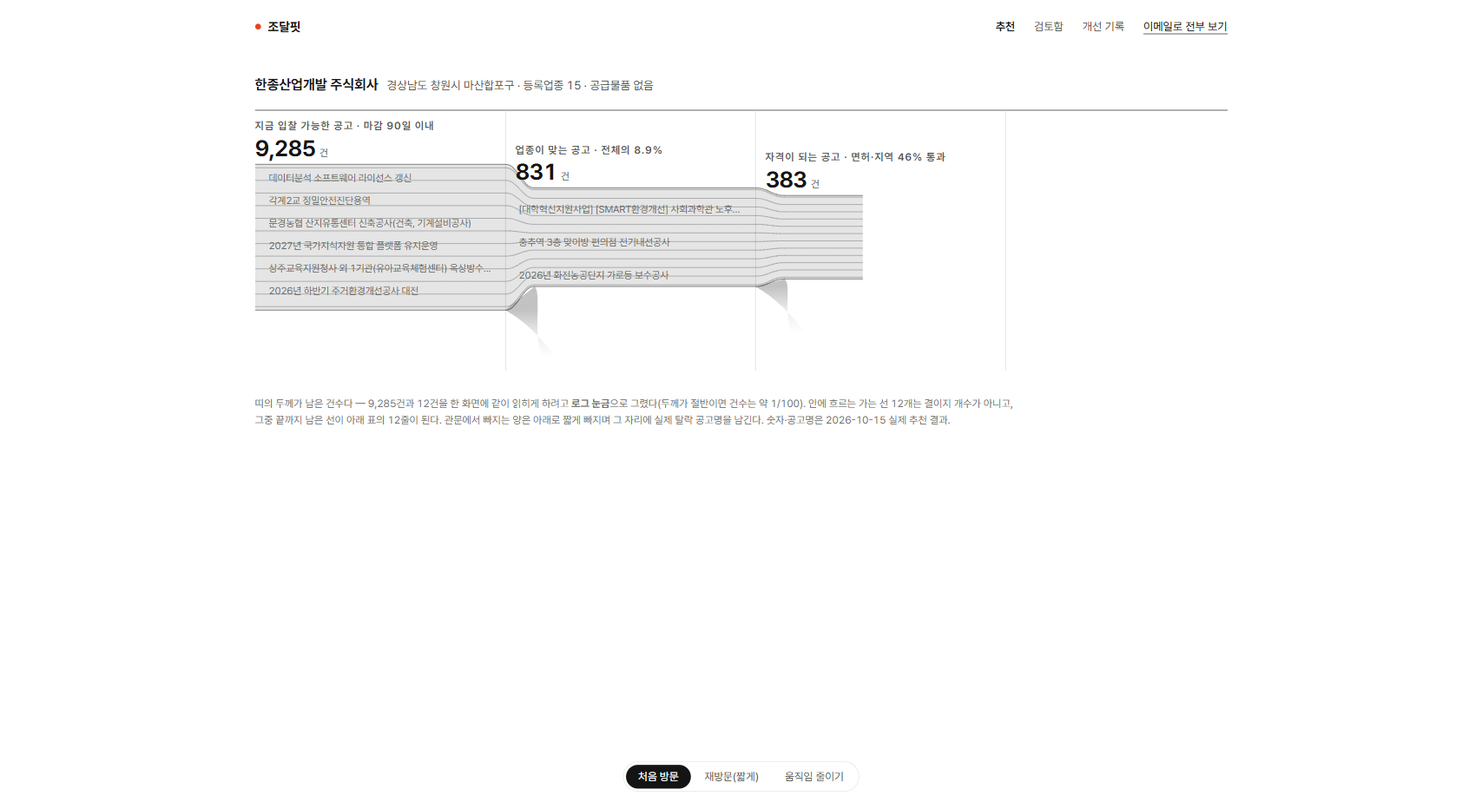
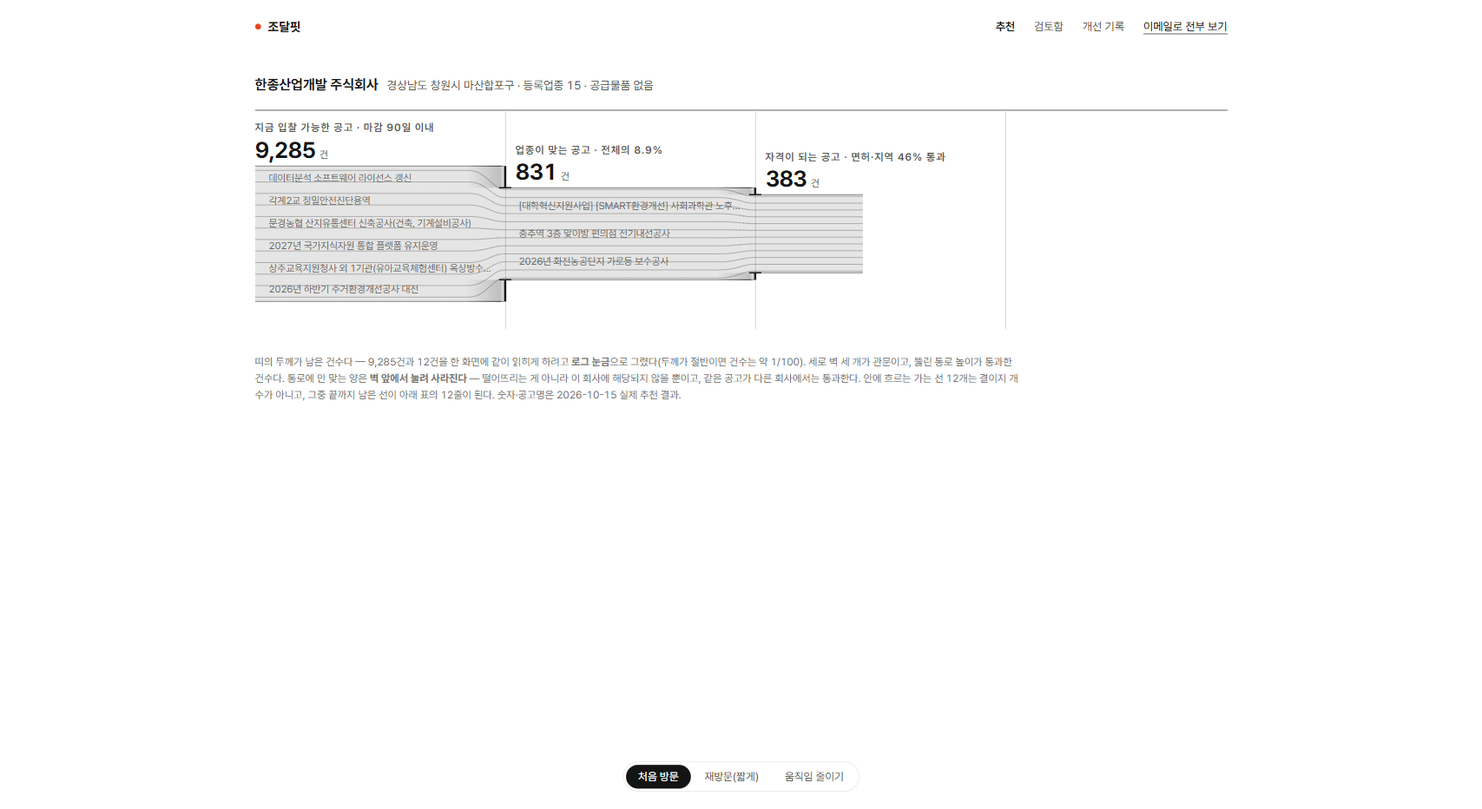
design(flow): 탈락을 '아래로 떨어짐'이 아니라 '관문에서 막힘'으로 — 체(sieve) 비유로 교체
막힌 공고는 나쁜 게 아니라 이 회사에 해당되지 않을 뿐이고, 같은 공고가 다른 회사에서는
통과한다. 아래로 버리는 쐐기는 그 사실을 거짓으로 말하고 있었다.

- 관문 = 통로만 뚫린 세로 벽 3개(288/576/864 등간격, 같은 처리 — 체크포인트 리듬).
  통로 높이 = 통과한 건수의 띠 높이. 통로 끝에 짧은 입술을 달아 '뚫린 구멍'을 분명히 했다.
- 통로에 안 맞는 양은 벽 앞 44px에서 눌려 짙어졌다가 벽면에서 흩어진다. 벽면에서 0이 아니라
  옅게 남겨 잉크가 벽에 닿게 했다 — 벽 앞에서 끊기면 '막힌' 게 아니라 '사라진' 걸로 읽힌다.
- 아래로 새는 도형 전부 삭제. 띠 높이 300 → 252px, 아래 매달린 것 없음.
- 구간은 계단식 평평한 네모(곡선 테이퍼 폐기), 통과한 흐름은 가운데로 모여 다음 벽까지.
- 가닥은 벽 앞 44px에서 통로 폭으로 모인다 — 구멍을 빠져나가는 그림.

표현 결정 반영 (docs/design/README.md 2026-10-15):
- 적합 점수 숫자 제거, 숫자 없는 막대만. '안 맞아요' 삭제, '검토 인장' → '검토'.
  gen_results_v3/v4 는 다른 작업자가 쓰는 중이라 건드리지 않고 sheet() 에서 문자열로 깎고
  치환 실패 시 assert 로 터지게 했다.

Changed region(s): [[0.1552, 0.1245, 0.5899, 0.4045], [0.1552, 0.4356, 0.6831, 0.529]]

diff --git a/docs/design/prototypes/flow.html b/docs/design/prototypes/flow.html
@@ -33,7 +33,7 @@ a { color:inherit; text-decoration:none } .dim { color:#6b6b67 } .mute { color:#
 
 .q { padding:26px 0 0; font-size:13.5px; color:#55554f } .q b { color:#141414; font-size:16px; font-weight:650; margin-right:10px }
 .stage { margin-top:20px; border-top:1px solid #141414 }
-.band { position:relative; height:300px; overflow:hidden; transition:height .55s cubic-bezier(.3,.7,.2,1) }
+.band { position:relative; height:252px; overflow:hidden; transition:height .55s cubic-bezier(.3,.7,.2,1) }
 .band svg { display:block; transition:transform .55s cubic-bezier(.3,.7,.2,1) }
 .lab { position:absolute; opacity:0; transition:opacity .4s ease } .lab.on { opacity:1 }
 .lab .k { display:block; font-size:12px; color:#55554f; white-space:nowrap; line-height:1.3 }
@@ -50,8 +50,10 @@ a { color:inherit; text-decoration:none } .dim { color:#6b6b67 } .mute { color:#
 .ctl { position:fixed; left:50%; bottom:20px; transform:translateX(-50%); display:flex; gap:2px; background:#fff; border:1px solid #e6e4df; border-radius:999px; padding:3px; font-size:12.5px }
 .ctl span { padding:6px 14px; border-radius:999px; color:#55554f; cursor:pointer } .ctl span.on { background:#141414; color:#fff }
 .foot { max-width:880px; line-height:1.6 }
+/* 적합은 숫자 없이 막대만 (docs/design/README.md 표현·요소 결정 2026-10-15) */
+.tr .fit i { margin-right:0 }
 @media (prefers-reduced-motion: reduce) { .band, .band svg, .lab, .ttl, .chain, .res { transition:none !important } }
-</style></head><body><div class="wrap"><div class="nav"><div class="brand"><i></i>조달핏</div><div class="links"><b>추천</b><span>검토함</span><span>개선 기록</span><span class="cta">이메일로 전부 보기</span></div></div><div class="q"><b>한종산업개발 주식회사</b>경상남도 창원시 마산합포구 · 등록업종 15 · 공급물품 없음</div><div class="stage"><div class="band"><svg viewBox="0 0 1120 300" width="100%" height="300" preserveAspectRatio="none" aria-hidden="true"><defs><clipPath id="c"><rect id="front" x="0" y="0" width="0" height="300"/></clipPath><linearGradient id="g" gradientUnits="userSpaceOnUse" x1="0" x2="1120"><stop offset="0" stop-color="#141414" stop-opacity=".3"/><stop offset="0.754" stop-color="#141414" stop-opacity=".3"/><stop offset="0.798" stop-color="#e8431b" stop-opacity=".85"/><stop offset="1" stop-color="#e8431b" stop-opacity=".85"/></linearGradient><linearGradient id="w1" gradientUnits="userSpaceOnUse" x1="0" y1="230.0" x2="0" y2="284.0"><stop offset="0" stop-color="#141414" stop-opacity=".26"/><stop offset=".55" stop-color="#141414" stop-opacity=".07"/><stop offset="1" stop-color="#141414" stop-opacity="0"/></linearGradient><linearGradient id="w2" gradientUnits="userSpaceOnUse" x1="0" y1="202.8" x2="0" y2="256.8"><stop offset="0" stop-color="#141414" stop-opacity=".26"/><stop offset=".55" stop-color="#141414" stop-opacity=".07"/><stop offset="1" stop-color="#141414" stop-opacity="0"/></linearGradient><linearGradient id="w3" gradientUnits="userSpaceOnUse" x1="0" y1="194.1" x2="0" y2="248.1"><stop offset="0" stop-color="#141414" stop-opacity=".26"/><stop offset=".55" stop-color="#141414" stop-opacity=".07"/><stop offset="1" stop-color="#141414" stop-opacity="0"/></linearGradient></defs><line x1="288.5" y1="0" x2="288.5" y2="300" stroke="#e6e4df"/><line x1="576.5" y1="0" x2="576.5" y2="300" stroke="#e6e4df"/><line x1="864.5" y1="0" x2="864.5" y2="300" stroke="#e6e4df"/><g clip-path="url(#c)"><path d="M0,62.0 L288,62.0 C303,62.0 307,89.2 322,89.2 L576,89.2 C591,89.2 595,97.9 610,97.9 L864,97.9 C879,97.9 883,137.0 898,137.0 L936,137.0 L936,155.0 L898,155.0 C883,155.0 879,194.1 864,194.1 L610,194.1 C595,194.1 591,202.8 576,202.8 L322,202.8 C307,202.8 303,230.0 288,230.0 L0,230.0 Z" fill="#141414" fill-opacity=".11"/><path d="M864,97.9 C879,97.9 883,137.0 898,137.0 L936,137.0 L936,155.0 L898,155.0 C883,155.0 879,194.1 864,194.1 Z" fill="#e8431b" fill-opacity=".14"/><path d="M288,230.0 C310,242.0 330,262.0 346,284.0 L330,284.0 C320,256.0 330,210.8 322,202.8 Z" fill="url(#w1)"/><path d="M576,202.8 C598,214.8 618,234.8 634,256.8 L618,256.8 C608,228.8 618,202.1 610,194.1 Z" fill="url(#w2)"/><path d="M864,194.1 C886,206.1 906,226.1 922,248.1 L906,248.1 C896,220.1 906,163.0 898,155.0 Z" fill="url(#w3)"/><path d="M0,62.0 L288,62.0 C303,62.0 307,89.2 322,89.2 L576,89.2 C591,89.2 595,97.9 610,97.9 L864,97.9 C879,97.9 883,137.0 898,137.0 L936,137.0" fill="none" stroke="#141414" stroke-opacity=".5" stroke-width="1"/><path d="M0,230.0 L288,230.0 C303,230.0 307,202.8 322,202.8 L576,202.8 C591,202.8 595,194.1 610,194.1 L864,194.1 C879,194.1 883,155.0 898,155.0 L936,155.0" fill="none" stroke="#141414" stroke-opacity=".5" stroke-width="1"/><path d="M0,66.0 L288,66.0 C303,66.0 307,91.2 322,91.2 L576,91.2 C591,91.2 595,99.9 610,99.9 L864,99.9 C879,99.9 883,139.0 898,139.0 L936,139.0 C1006,139.0 1050,34.0 1120,34.0" fill="none" stroke="url(#g)" stroke-width=".9"/><path d="M0,80.5 L288,80.5 C303,80.5 307,101.2 322,101.2 L576,101.2 C591,101.2 595,108.3 610,108.3 L864,108.3 C879,108.3 883,140.3 898,140.3 L936,140.3 C1006,140.3 1050,54.4 1120,54.4" fill="none" stroke="url(#g)" stroke-width=".9"/><path d="M0,95.1 L288,95.1 C303,95.1 307,111.1 322,111.1 L576,111.1 C591,111.1 595,116.7 610,116.7 L864,116.7 C879,116.7 883,141.5 898,141.5 L936,141.5 C1006,141.5 1050,74.7 1120,74.7" fill="none" stroke="url(#g)" stroke-width=".9"/><path d="M0,109.6 L288,109.6 C303,109.6 307,121.1 322,121.1 L576,121.1 C591,121.1 595,125.0 610,125.0 L864,125.0 C879,125.0 883,142.8 898,142.8 L936,142.8 C1006,142.8 1050,95.1 1120,95.1" fill="none" stroke="url(#g)" stroke-width=".9"/><path d="M0,124.2 L288,124.2 C303,124.2 307,131.1 322,131.1 L576,131.1 C591,131.1 595,133.4 610,133.4 L864,133.4 C879,133.4 883,144.1 898,144.1 L936,144.1 C1006,144.1 1050,115.5 1120,115.5" fill="none" stroke="url(#g)" stroke-width=".9"/><path d="M0,138.7 L288,138.7 C303,138.7 307,141.0 322,141.0 L576,141.0 C591,141.0 595,141.8 610,141.8 L864,141.8 C879,141.8 883,145.4 898,145.4 L936,145.4 C1006,145.4 1050,135.8 1120,135.8" fill="none" stroke="url(#g)" stroke-width=".9"/><path d="M0,153.3 L288,153.3 C303,153.3 307,151.0 322,151.0 L576,151.0 C591,151.0 595,150.2 610,150.2 L864,150.2 C879,150.2 883,146.6 898,146.6 L936,146.6 C1006,146.6 1050,156.2 1120,156.2" fill="none" stroke="url(#g)" stroke-width=".9"/><path d="M0,167.8 L288,167.8 C303,167.8 307,160.9 322,160.9 L576,160.9 C591,160.9 595,158.6 610,158.6 L864,158.6 C879,158.6 883,147.9 898,147.9 L936,147.9 C1006,147.9 1050,176.5 1120,176.5" fill="none" stroke="url(#g)" stroke-width=".9"/><path d="M0,182.4 L288,182.4 C303,182.4 307,170.9 322,170.9 L576,170.9 C591,170.9 595,167.0 610,167.0 L864,167.0 C879,167.0 883,149.2 898,149.2 L936,149.2 C1006,149.2 1050,196.9 1120,196.9" fill="none" stroke="url(#g)" stroke-width=".9"/><path d="M0,196.9 L288,196.9 C303,196.9 307,180.9 322,180.9 L576,180.9 C591,180.9 595,175.3 610,175.3 L864,175.3 C879,175.3 883,150.5 898,150.5 L936,150.5 C1006,150.5 1050,217.3 1120,217.3" fill="none" stroke="url(#g)" stroke-width=".9"/><path d="M0,211.5 L288,211.5 C303,211.5 307,190.8 322,190.8 L576,190.8 C591,190.8 595,183.7 610,183.7 L864,183.7 C879,183.7 883,151.7 898,151.7 L936,151.7 C1006,151.7 1050,237.6 1120,237.6" fill="none" stroke="url(#g)" stroke-width=".9"/><path d="M0,226.0 L288,226.0 C303,226.0 307,200.8 322,200.8 L576,200.8 C591,200.8 595,192.1 610,192.1 L864,192.1 C879,192.1 883,153.0 898,153.0 L936,153.0 C1006,153.0 1050,258.0 1120,258.0" fill="none" stroke="url(#g)" stroke-width=".9"/></g></svg><div class="lab " data-x="0" style="left:0.000%;top:10px"><span class="k">지금 입찰 가능한 공고 · 마감 90일 이내</span><div class="n"><span class="cnt" data-to="9285">0</span><small>건</small></div></div><div class="lab " data-x="288" style="left:26.786%;top:37px"><span class="k">업종이 맞는 공고 · 전체의 8.9%</span><div class="n"><span class="cnt" data-to="831">0</span><small>건</small></div></div><div class="lab " data-x="576" style="left:52.500%;top:46px"><span class="k">자격이 되는 공고 · 면허·지역 46% 통과</span><div class="n"><span class="cnt" data-to="385">0</span><small>건</small></div></div><div class="lab last" data-x="864" style="left:78.214%;top:85px"><span class="k">검토할 공고 · 앞 단계의 3.1%</span><div class="n"><span class="cnt" data-to="12">0</span><small>건</small></div></div><div class="ttl" data-x="272" style="left:1.429%;top:72px;max-width:22.857%">데이터분석 소프트웨어 라이선스 갱신</div><div class="ttl" data-x="272" style="left:1.429%;top:98px;max-width:22.857%">각계2교 정밀안전진단용역</div><div class="ttl" data-x="272" style="left:1.429%;top:124px;max-width:22.857%">문경농협 산지유통센터 신축공사(건축, 기계설비공사)</div><div class="ttl" data-x="272" style="left:1.429%;top:150px;max-width:22.857%">2027년 국가지식자원 통합 플랫폼 유지운영</div><div class="ttl" data-x="272" style="left:1.429%;top:176px;max-width:22.857%">상주교육지원청사 외 1기관(유아교육체험센터) 옥상방수 및 기타공사</div><div class="ttl" data-x="272" style="left:1.429%;top:202px;max-width:22.857%">2026년 하반기 주거환경개선공사 대전</div><div class="ttl" data-x="560" style="left:27.143%;top:108px;max-width:22.857%">[대학혁신지원사업] [SMART환경개선] 사회과학관 노후 냉난방설비 교체 공사(전기)</div><div class="ttl" data-x="560" style="left:27.143%;top:146px;max-width:22.857%">충추역 3층 맞이방 편의점 전기내선공사</div><div class="ttl" data-x="560" style="left:27.143%;top:184px;max-width:22.857%">2026년 화전농공단지 가로등 보수공사</div></div><div class="chain"><span class="k">걸러낸 경로</span><b>9,285</b><i>→</i><b>831</b><i>→</i><b>385</b><i>→</i><b class="acc">12</b><span>건</span></div></div><div class="res"><div class="th"><span>#</span><span>공고</span><span>발주기관</span><span>근거</span><span class="r">마감</span><span class="r">추정가</span><span class="r">적합</span></div><div class="tr"><span class="no">01</span><span class="t">양산하수처리장 악취저감사업 실시설계용역</span><span class="org">경상남도 양산시 상하수도사업소</span><span class="why">지역 매칭</span><span class="r d hot">D-5<small>10.20</small></span><span class="r">5,808만</span><span class="r fit"><i><b style="width:58%"></b></i>58</span></div><div class="x"><div><span class="k">참가 자격</span><ul><li class="ok">면허 — 허용업종 16개 중 엔지니어링사업 외 보유</li><li class="ok">지역 — 경상남도 양산시 제한, 본사 경상남도</li><li class="todo">규모 — 중소기업 확인서 요구 여부는 문서 조건에서, 회사 규모 미입력</li></ul></div><div><span class="k">추천 근거</span><ul><li>이 기관은 최근 낙찰의 50%를 같은 회사가 가져갔다.</li><li>공고의 지역 제한이 본사 소재지 경상남도와 맞는다.</li><li>추정가가 회사 평균 수주가의 0.01배라 체급 차이가 크다.</li><li>등록업종 표현이 허용업종과 겹친다 — 건설엔지니어링업(설계, 사업관리, 설계등용역.</li><li>공고 내용과 회사 업종 설명의 유사도 71%.</li></ul></div><div><span class="k">진행</span><div class="life"><span class="on">사전규격</span><span class="on">공고</span><span>입찰</span><span>개찰</span><span>낙찰</span><span>계약</span></div><div class="acts"><a class="bt dark" href="https://www.g2b.go.kr/link/PNPE027_01/single/?bidPbancNo=R26BK01769297&amp;bidPbancOrd=000">나라장터 원문</a><a class="bt" href="#">검토 인장</a><a class="bt txt" href="#"><u>안 맞아요</u></a></div></div></div><div class="tr"><span class="no">02</span><span class="t">국가소유(여수 4단계) 공공폐수처리시설 관리대행</span><span class="org">한국환경공단</span><span class="why">업종·물품 일치</span><span class="r d ">D-27<small>11.11</small></span><span class="r">41.2억</span><span class="r fit"><i><b style="width:52%"></b></i>52</span></div><div class="tr"><span class="no">03</span><span class="t">과학문화센터 건립사업 건설사업관리용역</span><span class="org">행정중심복합도시건설청</span><span class="why">업종·물품 일치</span><span class="r d ">D-26<small>11.10</small></span><span class="r">37.2억</span><span class="r fit"><i><b style="width:51%"></b></i>51</span></div><div class="tr"><span class="no">04</span><span class="t">중랑물재생센터 총인처리시설 관리대행</span><span class="org">서울특별시 물재생센터 중랑물재생센터</span><span class="why">업종·물품 일치</span><span class="r d ">D-42<small>11.26</small></span><span class="r">36.8억</span><span class="r fit"><i><b style="width:50%"></b></i>50</span></div><div class="tr"><span class="no">05</span><span class="t">군산항 4,5부두 리뉴얼사업 건설사업관리용역</span><span class="org">해양수산부 군산지방해양수산청</span><span class="why">업종·물품 일치</span><span class="r d ">D-15<small>10.30</small></span><span class="r">36.6억</span><span class="r fit"><i><b style="width:49%"></b></i>49</span></div><div class="fade"><div class="tr"><span class="no">06</span><span class="t">중랑물재생센터 일부시설물 관리대행</span><span class="org">서울특별시 물재생센터 중랑물재생센터</span><span class="why">업종·물품 일치</span><span class="r d ">D-40<small>11.24</small></span><span class="r">199.7억</span><span class="r fit"><i><b style="width:48%"></b></i>48</span></div><div class="tr"><span class="no">07</span><span class="t">시흥1동 주택가 시·구유 공영주차장 통합·증축 건설사업관리용역(감독권한대행)</span><span class="org">서울특별시 금천구</span><span class="why">업종·물품 일치</span><span class="r d hot">D-6<small>10.21</small></span><span class="r">24.6억</span><span class="r fit"><i><b style="width:48%"></b></i>48</span></div><div class="tr"><span class="no">08</span><span class="t">청주공항 국내선 및 지원시설 증축 건설사업관리용역</span><span class="org">한국공항공사</span><span class="why">업종·물품 일치</span><span class="r d ">D-20<small>11.04</small></span><span class="r">26.5억</span><span class="r fit"><i><b style="width:48%"></b></i>48</span></div><div class="tr"><span class="no">09</span><span class="t">양산시 공공하수도시설 관리대행용역(협상)</span><span class="org">경상남도 양산시</span><span class="why">재출현 기관</span><span class="r d ">D-26<small>11.10</small></span><span class="r">277.3억</span><span class="r fit"><i><b style="width:47%"></b></i>47</span></div><div class="tr"><span class="no">10</span><span class="t">새만금항 신항 항로 준설공사(2026) 건설사업관리용역</span><span class="org">해양수산부 군산지방해양수산청</span><span class="why">업종·물품 일치</span><span class="r d ">D-15<small>10.30</small></span><span class="r">20.6억</span><span class="r fit"><i><b style="width:47%"></b></i>47</span></div><div class="tr"><span class="no">11</span><span class="t">신창동 지역주택조합 유탑유블레스 승계공사 건설사업관리</span><span class="org">주택도시보증공사</span><span class="why">업종·물품 일치</span><span class="r d hot">D-4<small>10.19</small></span><span class="r">6억</span><span class="r fit"><i><b style="width:47%"></b></i>47</span></div><div class="tr"><span class="no">12</span><span class="t">평택~시흥고속도로 민간투자사업 관리운영위수탁</span><span class="org">제이서해안고속도로주식회사</span><span class="why">업종·물품 일치</span><span class="r d ">D-15<small>10.30</small></span><span class="r">462.3억</span><span class="r fit"><i><b style="width:46%"></b></i>46</span></div></div><div class="gateline"><b>나머지 7건은 이메일로.</b><span class="dim">처음 5건은 누구나, 전부는 이메일 하나로. 비밀번호 없음.</span><span class="sp"></span><span class="in"><span>you@company.co.kr</span><span class="bt dark">전부 보기</span></span></div></div><div class="foot">띠의 두께가 남은 건수다 — 9,285건과 12건을 한 화면에 같이 읽히게 하려고 <b>로그 눈금</b>으로 그렸다(두께가 절반이면 건수는 약 1/100). 안에 흐르는 가는 선 12개는 결이지 개수가 아니고, 그중 끝까지 남은 선이 아래 표의 12줄이 된다. 관문에서 빠지는 양은 아래로 짧게 빠지며 그 자리에 실제 탈락 공고명을 남긴다. 숫자·공고명은 2026-10-15 실제 추천 결과.</div></div><div class="ctl"><span data-run="full">처음 방문</span><span data-run="fast">재방문(짧게)</span><span data-run="still">움직임 줄이기</span></div><script>
+</style></head><body><div class="wrap"><div class="nav"><div class="brand"><i></i>조달핏</div><div class="links"><b>추천</b><span>검토함</span><span>개선 기록</span><span class="cta">이메일로 전부 보기</span></div></div><div class="q"><b>한종산업개발 주식회사</b>경상남도 창원시 마산합포구 · 등록업종 15 · 공급물품 없음</div><div class="stage"><div class="band"><svg viewBox="0 0 1120 252" width="100%" height="252" preserveAspectRatio="none" aria-hidden="true"><defs><clipPath id="c"><rect id="front" x="0" y="0" width="0" height="252"/></clipPath><linearGradient id="g" gradientUnits="userSpaceOnUse" x1="0" x2="1120"><stop offset="0" stop-color="#141414" stop-opacity=".3"/><stop offset="0.754" stop-color="#141414" stop-opacity=".3"/><stop offset="0.798" stop-color="#e8431b" stop-opacity=".85"/><stop offset="1" stop-color="#e8431b" stop-opacity=".85"/></linearGradient><linearGradient id="p0" gradientUnits="userSpaceOnUse" x1="0" x2="288"><stop offset="0" stop-color="#141414" stop-opacity=".11"/><stop offset="0.847" stop-color="#141414" stop-opacity=".11"/><stop offset="0.979" stop-color="#141414" stop-opacity=".27"/><stop offset="1" stop-color="#141414" stop-opacity=".08"/></linearGradient><linearGradient id="e0" gradientUnits="userSpaceOnUse" x1="0" x2="288"><stop offset="0" stop-color="#141414" stop-opacity=".5"/><stop offset="0.847" stop-color="#141414" stop-opacity=".5"/><stop offset="0.979" stop-color="#141414" stop-opacity=".88"/><stop offset="1" stop-color="#141414" stop-opacity=".12"/></linearGradient><linearGradient id="p1" gradientUnits="userSpaceOnUse" x1="288" x2="576"><stop offset="0" stop-color="#141414" stop-opacity=".11"/><stop offset="0.847" stop-color="#141414" stop-opacity=".11"/><stop offset="0.979" stop-color="#141414" stop-opacity=".27"/><stop offset="1" stop-color="#141414" stop-opacity=".08"/></linearGradient><linearGradient id="e1" gradientUnits="userSpaceOnUse" x1="288" x2="576"><stop offset="0" stop-color="#141414" stop-opacity=".5"/><stop offset="0.847" stop-color="#141414" stop-opacity=".5"/><stop offset="0.979" stop-color="#141414" stop-opacity=".88"/><stop offset="1" stop-color="#141414" stop-opacity=".12"/></linearGradient><linearGradient id="p2" gradientUnits="userSpaceOnUse" x1="576" x2="864"><stop offset="0" stop-color="#141414" stop-opacity=".11"/><stop offset="0.847" stop-color="#141414" stop-opacity=".11"/><stop offset="0.979" stop-color="#141414" stop-opacity=".27"/><stop offset="1" stop-color="#141414" stop-opacity=".08"/></linearGradient><linearGradient id="e2" gradientUnits="userSpaceOnUse" x1="576" x2="864"><stop offset="0" stop-color="#141414" stop-opacity=".5"/><stop offset="0.847" stop-color="#141414" stop-opacity=".5"/><stop offset="0.979" stop-color="#141414" stop-opacity=".88"/><stop offset="1" stop-color="#141414" stop-opacity=".12"/></linearGradient></defs><line x1="288.5" y1="0" x2="288.5" y2="252" stroke="#d8d6d0"/><line x1="576.5" y1="0" x2="576.5" y2="252" stroke="#d8d6d0"/><line x1="864.5" y1="0" x2="864.5" y2="252" stroke="#d8d6d0"/><g clip-path="url(#c)"><rect x="0" y="89.0" width="288" height="105.9" fill="#141414" fill-opacity=".11"/><rect x="0" y="64.0" width="288" height="25.0" fill="url(#p0)"/><line x1="0" y1="64.0" x2="288" y2="64.0" stroke="url(#e0)" stroke-width="1"/><rect x="0" y="195.0" width="288" height="25.0" fill="url(#p0)"/><line x1="0" y1="220.0" x2="288" y2="220.0" stroke="url(#e0)" stroke-width="1"/><rect x="288" y="97.0" width="288" height="90.0" fill="#141414" fill-opacity=".11"/><rect x="288" y="89.0" width="288" height="8.0" fill="url(#p1)"/><line x1="288" y1="89.0" x2="576" y2="89.0" stroke="url(#e1)" stroke-width="1"/><rect x="288" y="187.0" width="288" height="8.0" fill="url(#p1)"/><line x1="288" y1="195.0" x2="576" y2="195.0" stroke="url(#e1)" stroke-width="1"/><rect x="576" y="133.0" width="288" height="18.0" fill="#141414" fill-opacity=".11"/><rect x="576" y="97.0" width="288" height="36.0" fill="url(#p2)"/><line x1="576" y1="97.0" x2="864" y2="97.0" stroke="url(#e2)" stroke-width="1"/><rect x="576" y="151.0" width="288" height="36.0" fill="url(#p2)"/><line x1="576" y1="187.0" x2="864" y2="187.0" stroke="url(#e2)" stroke-width="1"/><rect x="864" y="133.0" width="72" height="18.0" fill="#e8431b" fill-opacity=".16"/><line x1="864" y1="133.0" x2="936" y2="133.0" stroke="#141414" stroke-opacity=".5" stroke-width="1"/><line x1="864" y1="151.0" x2="936" y2="151.0" stroke="#141414" stroke-opacity=".5" stroke-width="1"/><path d="M0,69.0 L244,69.0 C268,69.0 272,91.0 288,91.0 L532,91.0 C556,91.0 560,99.0 576,99.0 L820,99.0 C844,99.0 848,135.0 864,135.0 L936,135.0 C1006,135.0 1050,42.0 1120,42.0" fill="none" stroke="url(#g)" stroke-width=".9"/><path d="M0,82.3 L244,82.3 C268,82.3 272,100.3 288,100.3 L532,100.3 C556,100.3 560,106.8 576,106.8 L820,106.8 C844,106.8 848,136.3 864,136.3 L936,136.3 C1006,136.3 1050,60.2 1120,60.2" fill="none" stroke="url(#g)" stroke-width=".9"/><path d="M0,95.5 L244,95.5 C268,95.5 272,109.6 288,109.6 L532,109.6 C556,109.6 560,114.6 576,114.6 L820,114.6 C844,114.6 848,137.5 864,137.5 L936,137.5 C1006,137.5 1050,78.4 1120,78.4" fill="none" stroke="url(#g)" stroke-width=".9"/><path d="M0,108.8 L244,108.8 C268,108.8 272,118.8 288,118.8 L532,118.8 C556,118.8 560,122.5 576,122.5 L820,122.5 C844,122.5 848,138.8 864,138.8 L936,138.8 C1006,138.8 1050,96.5 1120,96.5" fill="none" stroke="url(#g)" stroke-width=".9"/><path d="M0,122.1 L244,122.1 C268,122.1 272,128.1 288,128.1 L532,128.1 C556,128.1 560,130.3 576,130.3 L820,130.3 C844,130.3 848,140.1 864,140.1 L936,140.1 C1006,140.1 1050,114.7 1120,114.7" fill="none" stroke="url(#g)" stroke-width=".9"/><path d="M0,135.4 L244,135.4 C268,135.4 272,137.4 288,137.4 L532,137.4 C556,137.4 560,138.1 576,138.1 L820,138.1 C844,138.1 848,141.4 864,141.4 L936,141.4 C1006,141.4 1050,132.9 1120,132.9" fill="none" stroke="url(#g)" stroke-width=".9"/><path d="M0,148.6 L244,148.6 C268,148.6 272,146.6 288,146.6 L532,146.6 C556,146.6 560,145.9 576,145.9 L820,145.9 C844,145.9 848,142.6 864,142.6 L936,142.6 C1006,142.6 1050,151.1 1120,151.1" fill="none" stroke="url(#g)" stroke-width=".9"/><path d="M0,161.9 L244,161.9 C268,161.9 272,155.9 288,155.9 L532,155.9 C556,155.9 560,153.7 576,153.7 L820,153.7 C844,153.7 848,143.9 864,143.9 L936,143.9 C1006,143.9 1050,169.3 1120,169.3" fill="none" stroke="url(#g)" stroke-width=".9"/><path d="M0,175.2 L244,175.2 C268,175.2 272,165.2 288,165.2 L532,165.2 C556,165.2 560,161.5 576,161.5 L820,161.5 C844,161.5 848,145.2 864,145.2 L936,145.2 C1006,145.2 1050,187.5 1120,187.5" fill="none" stroke="url(#g)" stroke-width=".9"/><path d="M0,188.5 L244,188.5 C268,188.5 272,174.4 288,174.4 L532,174.4 C556,174.4 560,169.4 576,169.4 L820,169.4 C844,169.4 848,146.5 864,146.5 L936,146.5 C1006,146.5 1050,205.6 1120,205.6" fill="none" stroke="url(#g)" stroke-width=".9"/><path d="M0,201.7 L244,201.7 C268,201.7 272,183.7 288,183.7 L532,183.7 C556,183.7 560,177.2 576,177.2 L820,177.2 C844,177.2 848,147.7 864,147.7 L936,147.7 C1006,147.7 1050,223.8 1120,223.8" fill="none" stroke="url(#g)" stroke-width=".9"/><path d="M0,215.0 L244,215.0 C268,215.0 272,193.0 288,193.0 L532,193.0 C556,193.0 560,185.0 576,185.0 L820,185.0 C844,185.0 848,149.0 864,149.0 L936,149.0 C1006,149.0 1050,242.0 1120,242.0" fill="none" stroke="url(#g)" stroke-width=".9"/><line x1="288" y1="64.0" x2="288" y2="89.0" stroke="#141414" stroke-width="2.5"/><line x1="281" y1="89.0" x2="295" y2="89.0" stroke="#141414" stroke-width="1.5"/><line x1="288" y1="220.0" x2="288" y2="195.0" stroke="#141414" stroke-width="2.5"/><line x1="281" y1="195.0" x2="295" y2="195.0" stroke="#141414" stroke-width="1.5"/><line x1="576" y1="89.0" x2="576" y2="97.0" stroke="#141414" stroke-width="2.5"/><line x1="569" y1="97.0" x2="583" y2="97.0" stroke="#141414" stroke-width="1.5"/><line x1="576" y1="195.0" x2="576" y2="187.0" stroke="#141414" stroke-width="2.5"/><line x1="569" y1="187.0" x2="583" y2="187.0" stroke="#141414" stroke-width="1.5"/><line x1="864" y1="97.0" x2="864" y2="133.0" stroke="#141414" stroke-width="2.5"/><line x1="857" y1="133.0" x2="871" y2="133.0" stroke="#141414" stroke-width="1.5"/><line x1="864" y1="187.0" x2="864" y2="151.0" stroke="#141414" stroke-width="2.5"/><line x1="857" y1="151.0" x2="871" y2="151.0" stroke="#141414" stroke-width="1.5"/></g></svg><div class="lab " data-x="0" style="left:0.000%;top:12px"><span class="k">지금 입찰 가능한 공고 · 마감 90일 이내</span><div class="n"><span class="cnt" data-to="9285">0</span><small>건</small></div></div><div class="lab " data-x="288" style="left:26.786%;top:37px"><span class="k">업종이 맞는 공고 · 전체의 8.9%</span><div class="n"><span class="cnt" data-to="831">0</span><small>건</small></div></div><div class="lab " data-x="576" style="left:52.500%;top:45px"><span class="k">자격이 되는 공고 · 면허·지역 46% 통과</span><div class="n"><span class="cnt" data-to="385">0</span><small>건</small></div></div><div class="lab last" data-x="864" style="left:78.214%;top:81px"><span class="k">검토할 공고 · 앞 단계의 3.1%</span><div class="n"><span class="cnt" data-to="12">0</span><small>건</small></div></div><div class="ttl" data-x="272" style="left:1.429%;top:72px;max-width:22.857%">데이터분석 소프트웨어 라이선스 갱신</div><div class="ttl" data-x="272" style="left:1.429%;top:98px;max-width:22.857%">각계2교 정밀안전진단용역</div><div class="ttl" data-x="272" style="left:1.429%;top:124px;max-width:22.857%">문경농협 산지유통센터 신축공사(건축, 기계설비공사)</div><div class="ttl" data-x="272" style="left:1.429%;top:150px;max-width:22.857%">2027년 국가지식자원 통합 플랫폼 유지운영</div><div class="ttl" data-x="272" style="left:1.429%;top:176px;max-width:22.857%">상주교육지원청사 외 1기관(유아교육체험센터) 옥상방수 및 기타공사</div><div class="ttl" data-x="272" style="left:1.429%;top:200px;max-width:22.857%">2026년 하반기 주거환경개선공사 대전</div><div class="ttl" data-x="560" style="left:27.143%;top:104px;max-width:22.857%">[대학혁신지원사업] [SMART환경개선] 사회과학관 노후 냉난방설비 교체 공사(전기)</div><div class="ttl" data-x="560" style="left:27.143%;top:136px;max-width:22.857%">충추역 3층 맞이방 편의점 전기내선공사</div><div class="ttl" data-x="560" style="left:27.143%;top:168px;max-width:22.857%">2026년 화전농공단지 가로등 보수공사</div></div><div class="chain"><span class="k">걸러낸 경로</span><b>9,285</b><i>→</i><b>831</b><i>→</i><b>385</b><i>→</i><b class="acc">12</b><span>건</span></div></div><div class="res"><div class="th"><span>#</span><span>공고</span><span>발주기관</span><span>근거</span><span class="r">마감</span><span class="r">추정가</span><span class="r">적합</span></div><div class="tr"><span class="no">01</span><span class="t">양산하수처리장 악취저감사업 실시설계용역</span><span class="org">경상남도 양산시 상하수도사업소</span><span class="why">지역 매칭</span><span class="r d hot">D-5<small>10.20</small></span><span class="r">5,808만</span><span class="r fit"><i><b style="width:58%"></b></i></span></div><div class="x"><div><span class="k">참가 자격</span><ul><li class="ok">면허 — 허용업종 16개 중 엔지니어링사업 외 보유</li><li class="ok">지역 — 경상남도 양산시 제한, 본사 경상남도</li><li class="todo">규모 — 중소기업 확인서 요구 여부는 문서 조건에서, 회사 규모 미입력</li></ul></div><div><span class="k">추천 근거</span><ul><li>이 기관은 최근 낙찰의 50%를 같은 회사가 가져갔다.</li><li>공고의 지역 제한이 본사 소재지 경상남도와 맞는다.</li><li>추정가가 회사 평균 수주가의 0.01배라 체급 차이가 크다.</li><li>등록업종 표현이 허용업종과 겹친다 — 건설엔지니어링업(설계, 사업관리, 설계등용역.</li><li>공고 내용과 회사 업종 설명의 유사도 71%.</li></ul></div><div><span class="k">진행</span><div class="life"><span class="on">사전규격</span><span class="on">공고</span><span>입찰</span><span>개찰</span><span>낙찰</span><span>계약</span></div><div class="acts"><a class="bt dark" href="https://www.g2b.go.kr/link/PNPE027_01/single/?bidPbancNo=R26BK01769297&amp;bidPbancOrd=000">나라장터 원문</a><a class="bt" href="#">검토</a></div></div></div><div class="tr"><span class="no">02</span><span class="t">국가소유(여수 4단계) 공공폐수처리시설 관리대행</span><span class="org">한국환경공단</span><span class="why">업종·물품 일치</span><span class="r d ">D-27<small>11.11</small></span><span class="r">41.2억</span><span class="r fit"><i><b style="width:52%"></b></i></span></div><div class="tr"><span class="no">03</span><span class="t">과학문화센터 건립사업 건설사업관리용역</span><span class="org">행정중심복합도시건설청</span><span class="why">업종·물품 일치</span><span class="r d ">D-26<small>11.10</small></span><span class="r">37.2억</span><span class="r fit"><i><b style="width:51%"></b></i></span></div><div class="tr"><span class="no">04</span><span class="t">중랑물재생센터 총인처리시설 관리대행</span><span class="org">서울특별시 물재생센터 중랑물재생센터</span><span class="why">업종·물품 일치</span><span class="r d ">D-42<small>11.26</small></span><span class="r">36.8억</span><span class="r fit"><i><b style="width:50%"></b></i></span></div><div class="tr"><span class="no">05</span><span class="t">군산항 4,5부두 리뉴얼사업 건설사업관리용역</span><span class="org">해양수산부 군산지방해양수산청</span><span class="why">업종·물품 일치</span><span class="r d ">D-15<small>10.30</small></span><span class="r">36.6억</span><span class="r fit"><i><b style="width:49%"></b></i></span></div><div class="fade"><div class="tr"><span class="no">06</span><span class="t">중랑물재생센터 일부시설물 관리대행</span><span class="org">서울특별시 물재생센터 중랑물재생센터</span><span class="why">업종·물품 일치</span><span class="r d ">D-40<small>11.24</small></span><span class="r">199.7억</span><span class="r fit"><i><b style="width:48%"></b></i></span></div><div class="tr"><span class="no">07</span><span class="t">시흥1동 주택가 시·구유 공영주차장 통합·증축 건설사업관리용역(감독권한대행)</span><span class="org">서울특별시 금천구</span><span class="why">업종·물품 일치</span><span class="r d hot">D-6<small>10.21</small></span><span class="r">24.6억</span><span class="r fit"><i><b style="width:48%"></b></i></span></div><div class="tr"><span class="no">08</span><span class="t">청주공항 국내선 및 지원시설 증축 건설사업관리용역</span><span class="org">한국공항공사</span><span class="why">업종·물품 일치</span><span class="r d ">D-20<small>11.04</small></span><span class="r">26.5억</span><span class="r fit"><i><b style="width:48%"></b></i></span></div><div class="tr"><span class="no">09</span><span class="t">양산시 공공하수도시설 관리대행용역(협상)</span><span class="org">경상남도 양산시</span><span class="why">재출현 기관</span><span class="r d ">D-26<small>11.10</small></span><span class="r">277.3억</span><span class="r fit"><i><b style="width:47%"></b></i></span></div><div class="tr"><span class="no">10</span><span class="t">새만금항 신항 항로 준설공사(2026) 건설사업관리용역</span><span class="org">해양수산부 군산지방해양수산청</span><span class="why">업종·물품 일치</span><span class="r d ">D-15<small>10.30</small></span><span class="r">20.6억</span><span class="r fit"><i><b style="width:47%"></b></i></span></div><div class="tr"><span class="no">11</span><span class="t">신창동 지역주택조합 유탑유블레스 승계공사 건설사업관리</span><span class="org">주택도시보증공사</span><span class="why">업종·물품 일치</span><span class="r d hot">D-4<small>10.19</small></span><span class="r">6억</span><span class="r fit"><i><b style="width:47%"></b></i></span></div><div class="tr"><span class="no">12</span><span class="t">평택~시흥고속도로 민간투자사업 관리운영위수탁</span><span class="org">제이서해안고속도로주식회사</span><span class="why">업종·물품 일치</span><span class="r d ">D-15<small>10.30</small></span><span class="r">462.3억</span><span class="r fit"><i><b style="width:46%"></b></i></span></div></div><div class="gateline"><b>나머지 7건은 이메일로.</b><span class="dim">처음 5건은 누구나, 전부는 이메일 하나로. 비밀번호 없음.</span><span class="sp"></span><span class="in"><span>you@company.co.kr</span><span class="bt dark">전부 보기</span></span></div></div><div class="foot">띠의 두께가 남은 건수다 — 9,285건과 12건을 한 화면에 같이 읽히게 하려고 <b>로그 눈금</b>으로 그렸다(두께가 절반이면 건수는 약 1/100). 세로 벽 세 개가 관문이고, 뚫린 통로 높이가 통과한 건수다. 통로에 안 맞는 양은 <b>벽 앞에서 눌려 사라진다</b> — 떨어뜨리는 게 아니라 이 회사에 해당되지 않을 뿐이고, 같은 공고가 다른 회사에서는 통과한다. 안에 흐르는 가는 선 12개는 결이지 개수가 아니고, 그중 끝까지 남은 선이 아래 표의 12줄이 된다. 숫자·공고명은 2026-10-15 실제 추천 결과.</div></div><div class="ctl"><span data-run="full">처음 방문</span><span data-run="fast">재방문(짧게)</span><span data-run="still">움직임 줄이기</span></div><script>
 const L = [...document.querySelectorAll('.lab')], T = [...document.querySelectorAll('.ttl')];
 const front = document.getElementById('front');
 const reduce = matchMedia('(prefers-reduced-motion: reduce)').matches;

diff --git a/docs/design/scripts/gen_flow.py b/docs/design/scripts/gen_flow.py
@@ -1,12 +1,15 @@
-"""시안 "흐름" — 지금 입찰 가능한 공고가 띠로 흐르고, 관문마다 띠가 좁아진다.
+"""시안 "흐름" — 지금 입찰 가능한 공고가 띠로 흐르고, 관문(체) 세 개를 지나며 통로가 좁아진다.
 띠의 반높이가 남은 건수(로그 눈금)다. 9,285 → 업종 831 → 자격 385 → 검토할 12.
-관문에서 빠진 양은 짧은 쐐기로 아래로 빠져 60px 안에 사라지고, 마지막 12가닥이 아래 표의 12줄로 펼쳐진다.
+관문은 통로만 뚫린 세로 벽이다. 통로에 안 맞는 양은 떨어지는 게 아니라 벽 앞에서 눌려 사라진다
+— 그 공고들이 나쁜 게 아니라 '이 회사'에 해당되지 않을 뿐이라서, 아래로 버리는 그림을 쓰지 않는다.
+통로를 지난 흐름은 다시 가운데로 모여 다음 관문까지 간다. 마지막 12가닥이 아래 표의 12줄로 펼쳐진다.
 흐름이 끝나면 띠는 접히고 '9,285 → 831 → 385 → 12' 한 줄만 표 위에 남는다.
 사용: cd backend && PYTHONPATH=".;../docs/design/scripts" uv run python ../docs/design/scripts/gen_flow.py <sample.json> <funnel.json> <scene_titles.json> ../docs/design/prototypes/flow.html
 """
 import html
 import json
 import math
+import re
 import sys
 
 sys.path.insert(0, __file__.rsplit("\\", 1)[0] if "\\" in __file__ else __file__.rsplit("/", 1)[0])
@@ -14,12 +17,12 @@ from gen_results_v3 import FONT, SHEET_CSS  # noqa: E402
 from gen_results_v4 import nav, table  # noqa: E402
 from jobs.evaluate_recommender import connect, fetch_company_profile  # noqa: E402
 
-W, H, CY = 1120, 300, 146
-XS = [0, 288, 576, 864]      # 구간 시작 x — 관문은 288 / 576 / 864
-TAPER = 34                   # 관문을 지난 직후 이 거리 안에서 띠가 좁아진다
-FAN_X, FAN_SP = 936, 112     # 마지막 구간에서 12가닥이 표 줄 위치로 펼쳐지는 지점
-HMIN, HMAX = 9, 84           # 띠 반높이 — 로그 눈금의 양 끝
-DROP = 54                    # 탈락 쐐기가 아래로 빠지는 거리 (짧고 단호하게)
+W, H, CY = 1120, 252, 142
+XS = [0, 288, 576, 864]      # 구간 시작 x — 관문(벽)은 288 / 576 / 864 에 같은 간격으로 선다
+FAN_X, FAN_SP = 936, 100     # 마지막 구간에서 12가닥이 표 줄 위치로 펼쳐지는 지점
+HMIN, HMAX = 9, 78           # 띠 반높이 — 로그 눈금의 양 끝
+PRESS = 44                   # 벽에 막힌 양이 눌렸다 흩어지는 거리 (벽 앞 44px)
+CONV = 44                    # 가닥이 통로 폭으로 모이는 거리 (벽 앞 44px)
 
 
 def half(counts):
@@ -28,38 +31,28 @@ def half(counts):
     return [HMIN + (HMAX - HMIN) * (math.log(c) - lo) / (hi - lo) for c in counts]
 
 
-def edge(hh, sign):
-    """위(-1)/아래(+1) 가장자리 — 관문까지 평평하게 가다 TAPER 안에서만 꺾인다. 딱딱한 모서리."""
-    d, y = [], CY + sign * hh[0]
-    for k in (1, 2, 3):
-        ny = CY + sign * hh[k]
-        d.append(f"L{XS[k]},{y:.1f} C{XS[k] + 15},{y:.1f} {XS[k] + 19},{ny:.1f} {XS[k] + TAPER},{ny:.1f}")
-        y = ny
-    d.append(f"L{FAN_X},{y:.1f}")
-    return " ".join(d)
-
-
-def edge_rev(hh, sign):
-    """같은 가장자리를 FAN_X → 0 역방향으로 (띠를 하나의 닫힌 도형으로 만들기 위해)."""
-    d, y = [], CY + sign * hh[3]
-    for k in (3, 2, 1):
-        ny = CY + sign * hh[k - 1]
-        d.append(f"L{XS[k] + TAPER},{y:.1f} C{XS[k] + 19},{y:.1f} {XS[k] + 15},{ny:.1f} {XS[k]},{ny:.1f}")
-        y = ny
-    d.append(f"L0,{y:.1f}")
-    return " ".join(d)
+def stops(x0, x1, a, pressed, tail):
+    """벽 앞에서만 변하는 가로 그라디언트 — PRESS 전까지는 그대로, 벽에 눌려 짙어졌다 벽면에서 흩어진다.
+    벽면에서 0이 아니라 tail 로 끝낸다: 잉크가 벽에 닿아야 '막혔다'로 읽힌다(벽 앞에서 끊기면 그냥 사라진 것)."""
+    wd = x1 - x0
+    return (f'<linearGradient gradientUnits="userSpaceOnUse" x1="{x0}" x2="{x1}">'
+            f'<stop offset="0" stop-color="#141414" stop-opacity="{a}"/>'
+            f'<stop offset="{(wd - PRESS) / wd:.3f}" stop-color="#141414" stop-opacity="{a}"/>'
+            f'<stop offset="{(wd - 6) / wd:.3f}" stop-color="#141414" stop-opacity="{pressed}"/>'
+            f'<stop offset="1" stop-color="#141414" stop-opacity="{tail}"/></linearGradient>')
 
 
 def strands(hh, n):
-    """띠 안을 흐르는 가닥 몇 개 — 양을 나타내는 건 띠고, 이건 결이다. 마지막엔 표의 n줄로 펼쳐진다."""
+    """띠 안을 흐르는 가닥 몇 개 — 양을 나타내는 건 띠고, 이건 결이다. 벽 앞에서 통로 폭으로 모인다."""
     out = []
     for i in range(n):
         t = i / (n - 1) * 2 - 1
-        y = CY + t * (hh[0] - 4)
+        y = CY + t * (hh[0] - 5)
         d = f"M0,{y:.1f}"
         for k in (1, 2, 3):
             ny = CY + t * max(hh[k] - 2, 1.5)
-            d += f" L{XS[k]},{y:.1f} C{XS[k] + 15},{y:.1f} {XS[k] + 19},{ny:.1f} {XS[k] + TAPER},{ny:.1f}"
+            g = XS[k]
+            d += f" L{g - CONV},{y:.1f} C{g - 20},{y:.1f} {g - 16},{ny:.1f} {g},{ny:.1f}"
             y = ny
         row = CY + t * FAN_SP
         d += f" L{FAN_X},{y:.1f} C{FAN_X + 70},{y:.1f} {W - 70},{row:.1f} {W},{row:.1f}"
@@ -67,21 +60,33 @@ def strands(hh, n):
     return out
 
 
-def wedge(hh, k):
-    """관문 k에서 빠진 양 — 짧게 아래로 빠지고 DROP 안에서 사라진다. (도형, 그라디언트)."""
-    gx, yb, ym = XS[k], CY + hh[k - 1], CY + hh[k]
-    return (f'<path d="M{gx},{yb:.1f} C{gx + 22},{yb + 12:.1f} {gx + 42},{yb + 32:.1f} {gx + 58},{yb + DROP:.1f} '
-            f'L{gx + 42},{yb + DROP:.1f} C{gx + 32},{yb + 26:.1f} {gx + TAPER + 8},{ym + 8:.1f} {gx + TAPER},{ym:.1f} Z" '
-            f'fill="url(#w{k})"/>',
-            f'<linearGradient id="w{k}" gradientUnits="userSpaceOnUse" x1="0" y1="{yb:.1f}" x2="0" y2="{yb + DROP:.1f}">'
-            f'<stop offset="0" stop-color="#141414" stop-opacity=".26"/><stop offset=".55" stop-color="#141414" stop-opacity=".07"/>'
-            f'<stop offset="1" stop-color="#141414" stop-opacity="0"/></linearGradient>')
+def sieve(hh):
+    """구간 = 평평한 네모(계단식). 관문 = 통로만 뚫린 세로 벽. 막힌 양은 벽 앞에서 눌려 사라진다."""
+    defs, body, walls = [], [], []
+    for s in (0, 1, 2):
+        g, x0 = XS[s + 1], XS[s]
+        defs.append(stops(x0, g, ".11", ".27", ".08").replace("<linearGradient", f'<linearGradient id="p{s}"', 1))
+        defs.append(stops(x0, g, ".5", ".88", ".12").replace("<linearGradient", f'<linearGradient id="e{s}"', 1))
+        # 통로를 지날 속심 — 벽까지 그대로 간다
+        body.append(f'<rect x="{x0}" y="{CY - hh[s + 1]:.1f}" width="{g - x0}" height="{2 * hh[s + 1]:.1f}" fill="#141414" fill-opacity=".11"/>')
+        for sg in (-1, 1):
+            y = CY - hh[s] if sg < 0 else CY + hh[s + 1]
+            body.append(f'<rect x="{x0}" y="{y:.1f}" width="{g - x0}" height="{hh[s] - hh[s + 1]:.1f}" fill="url(#p{s})"/>')
+            body.append(f'<line x1="{x0}" y1="{CY + sg * hh[s]:.1f}" x2="{g}" y2="{CY + sg * hh[s]:.1f}" stroke="url(#e{s})" stroke-width="1"/>')
+            # 벽: 통로(±hh[s+1]) 바깥만 막혀 있다. 통로 쪽 끝에 짧은 입술을 달아 '뚫린 구멍'을 분명히 한다
+            walls.append(f'<line x1="{g}" y1="{CY + sg * hh[s]:.1f}" x2="{g}" y2="{CY + sg * hh[s + 1]:.1f}" stroke="#141414" stroke-width="2.5"/>'
+                         f'<line x1="{g - 7}" y1="{CY + sg * hh[s + 1]:.1f}" x2="{g + 7}" y2="{CY + sg * hh[s + 1]:.1f}" stroke="#141414" stroke-width="1.5"/>')
+    # 마지막 구간 — 통과한 12건, 유일한 인주
+    body.append(f'<rect x="{XS[3]}" y="{CY - hh[3]:.1f}" width="{FAN_X - XS[3]}" height="{2 * hh[3]:.1f}" fill="#e8431b" fill-opacity=".16"/>')
+    for sg in (-1, 1):
+        body.append(f'<line x1="{XS[3]}" y1="{CY + sg * hh[3]:.1f}" x2="{FAN_X}" y2="{CY + sg * hh[3]:.1f}" stroke="#141414" stroke-opacity=".5" stroke-width="1"/>')
+    return "".join(defs), "".join(body), "".join(walls)
 
 
 CSS = SHEET_CSS + r"""
 .q { padding:26px 0 0; font-size:13.5px; color:#55554f } .q b { color:#141414; font-size:16px; font-weight:650; margin-right:10px }
 .stage { margin-top:20px; border-top:1px solid #141414 }
-.band { position:relative; height:300px; overflow:hidden; transition:height .55s cubic-bezier(.3,.7,.2,1) }
+.band { position:relative; height:252px; overflow:hidden; transition:height .55s cubic-bezier(.3,.7,.2,1) }
 .band svg { display:block; transition:transform .55s cubic-bezier(.3,.7,.2,1) }
 .lab { position:absolute; opacity:0; transition:opacity .4s ease } .lab.on { opacity:1 }
 .lab .k { display:block; font-size:12px; color:#55554f; white-space:nowrap; line-height:1.3 }
@@ -98,6 +103,8 @@ CSS = SHEET_CSS + r"""
 .ctl { position:fixed; left:50%; bottom:20px; transform:translateX(-50%); display:flex; gap:2px; background:#fff; border:1px solid #e6e4df; border-radius:999px; padding:3px; font-size:12.5px }
 .ctl span { padding:6px 14px; border-radius:999px; color:#55554f; cursor:pointer } .ctl span.on { background:#141414; color:#fff }
 .foot { max-width:880px; line-height:1.6 }
+/* 적합은 숫자 없이 막대만 (docs/design/README.md 표현·요소 결정 2026-10-15) */
+.tr .fit i { margin-right:0 }
 @media (prefers-reduced-motion: reduce) { .band, .band svg, .lab, .ttl, .chain, .res { transition:none !important } }
 """
 
@@ -137,29 +144,24 @@ document.querySelectorAll('.ctl span').forEach(s => s.onclick = () => run(s.data
 run(reduce ? 'still' : 'full');
 """
 
-# (구간, 왼쪽 x, 기준선 y, 최대폭) — 1구간 6개, 2구간 3개. 각자 자기 줄을 쓰고 관문선을 넘지 않는다.
-SPOTS = ([("drop_ind", 16, 72), ("drop_ind", 16, 98), ("drop_ind", 16, 124), ("drop_ind", 16, 150), ("drop_ind", 16, 176), ("drop_ind", 16, 202)]
-         + [("drop_rgn", 304, 108), ("drop_rgn", 304, 146), ("drop_rgn", 304, 184)])
+# (출처, 왼쪽 x, 기준선 y) — 1구간 6개, 2구간 3개. 각자 자기 줄을 쓰고 벽을 넘지 않는다.
+SPOTS = ([("drop_ind", 16, 72), ("drop_ind", 16, 98), ("drop_ind", 16, 124), ("drop_ind", 16, 150), ("drop_ind", 16, 176), ("drop_ind", 16, 200)]
+         + [("drop_rgn", 304, 104), ("drop_rgn", 304, 136), ("drop_rgn", 304, 168)])
 
 
 def band(f, n, titles):
     hh = half([f["total"], f["industry"], f["qualified"], n])
-    fill = (f'<path d="M0,{CY - hh[0]:.1f} {edge(hh, -1)} L{FAN_X},{CY + hh[3]:.1f} {edge_rev(hh, 1)} Z" fill="#141414" fill-opacity=".11"/>')
-    acc = (f'<path d="M{XS[3]},{CY - hh[2]:.1f} C{XS[3] + 15},{CY - hh[2]:.1f} {XS[3] + 19},{CY - hh[3]:.1f} {XS[3] + TAPER},{CY - hh[3]:.1f} '
-           f'L{FAN_X},{CY - hh[3]:.1f} L{FAN_X},{CY + hh[3]:.1f} L{XS[3] + TAPER},{CY + hh[3]:.1f} '
-           f'C{XS[3] + 19},{CY + hh[3]:.1f} {XS[3] + 15},{CY + hh[2]:.1f} {XS[3]},{CY + hh[2]:.1f} Z" fill="#e8431b" fill-opacity=".14"/>')
-    rims = "".join(f'<path d="M0,{CY + s * hh[0]:.1f} {edge(hh, s)}" fill="none" stroke="#141414" stroke-opacity=".5" stroke-width="1"/>' for s in (-1, 1))
+    defs, body, walls = sieve(hh)
     # 가닥은 띠 안에서는 결(연한 먹), 마지막 구간부터는 셀 수 있게 인주로 굵어진다 — 12개를 눈으로 세는 지점
     hair = "".join(f'<path d="{d}" fill="none" stroke="url(#g)" stroke-width=".9"/>' for d in strands(hh, n))
     grad = (f'<linearGradient id="g" gradientUnits="userSpaceOnUse" x1="0" x2="{W}">'
             f'<stop offset="0" stop-color="#141414" stop-opacity=".3"/><stop offset="{(XS[3] - 20) / W:.3f}" stop-color="#141414" stop-opacity=".3"/>'
             f'<stop offset="{(XS[3] + 30) / W:.3f}" stop-color="#e8431b" stop-opacity=".85"/><stop offset="1" stop-color="#e8431b" stop-opacity=".85"/></linearGradient>')
-    gates = "".join(f'<line x1="{x + .5}" y1="0" x2="{x + .5}" y2="{H}" stroke="#e6e4df"/>' for x in XS[1:])
-    wd = [wedge(hh, k) for k in (1, 2, 3)]
+    # 벽에서 라벨까지 올라가는 연한 기둥 — 이 숫자를 만든 게 저 벽임을 눈으로 잇는다
+    posts = "".join(f'<line x1="{x + .5}" y1="0" x2="{x + .5}" y2="{H}" stroke="#d8d6d0"/>' for x in XS[1:])
     svg = (f'<svg viewBox="0 0 {W} {H}" width="100%" height="{H}" preserveAspectRatio="none" aria-hidden="true">'
-           f'<defs><clipPath id="c"><rect id="front" x="0" y="0" width="0" height="{H}"/></clipPath>'
-           f'{grad}{"".join(g for _, g in wd)}</defs>'
-           f'{gates}<g clip-path="url(#c)">{fill}{acc}{"".join(p for p, _ in wd)}{rims}{hair}</g></svg>')
+           f'<defs><clipPath id="c"><rect id="front" x="0" y="0" width="0" height="{H}"/></clipPath>{grad}{defs}</defs>'
+           f'{posts}<g clip-path="url(#c)">{body}{hair}{walls}</g></svg>')
 
     # 글자는 전진선이 제 폭을 다 지나간 뒤에만 나타난다 — 잉크보다 앞서 나가면 계측이 아니다
     tx = "".join(f'<div class="ttl" data-x="{x + XS[1] - 32}" style="left:{x / W * 100:.3f}%;top:{y}px;max-width:{(XS[1] - 32) / W * 100:.3f}%">{titles[src][k]}</div>'
@@ -178,6 +180,18 @@ def labels(f, n, hh):
         for i, (k, v) in enumerate(steps))
 
 
+def sheet(res, prof):
+    """gen_results_v4.table() 결과를 이 시안의 표현 결정에 맞게 깎는다.
+    (gen_results_v3/v4 는 다른 작업자가 쓰는 중이라 건드리지 않고 문자열에서 뺀다 — README 2026-10-15)
+    적합 점수 숫자는 빼고 막대만, '안 맞아요' 는 없애고 '검토 인장' 은 '검토' 로."""
+    h = re.sub(r'(<i><b style="width:\d+%"></b></i>)\d+(</span>)', r"\1\2", table(res, prof))
+    h = h.replace('<a class="bt" href="#">검토 인장</a><a class="bt txt" href="#"><u>안 맞아요</u></a>',
+                  '<a class="bt" href="#">검토</a>')
+    assert "안 맞아요" not in h and "검토 인장" not in h, "표 버튼 치환 실패 — gen_results_v4 마크업이 바뀌었다"
+    assert not re.search(r"</b></i>\d", h), "적합 숫자가 남았다"
+    return h
+
+
 def page(d, prof, f, titles):
     res, co = d["results"], d["company"]
     chain = (f'<div class="chain"><span class="k">걸러낸 경로</span><b>{f["total"]:,}</b><i>→</i><b>{f["industry"]}</b><i>→</i>'
@@ -185,10 +199,11 @@ def page(d, prof, f, titles):
     body = (f'<div class="wrap">{nav()}'
             f'<div class="q"><b>{esc(co["corp_nm"])}</b>{esc(co["rgn_nm"])} · 등록업종 {len(prof["industries"][0] + prof["industries"][1])} · 공급물품 없음</div>'
             f'<div class="stage">{band(f, len(res), titles)}{chain}</div>'
-            f'<div class="res">{table(res, prof)}</div>'
+            f'<div class="res">{sheet(res, prof)}</div>'
             f'<div class="foot">띠의 두께가 남은 건수다 — 9,285건과 12건을 한 화면에 같이 읽히게 하려고 <b>로그 눈금</b>으로 그렸다(두께가 절반이면 건수는 약 1/100). '
-            f'안에 흐르는 가는 선 {len(res)}개는 결이지 개수가 아니고, 그중 끝까지 남은 선이 아래 표의 {len(res)}줄이 된다. '
-            f'관문에서 빠지는 양은 아래로 짧게 빠지며 그 자리에 실제 탈락 공고명을 남긴다. 숫자·공고명은 2026-10-15 실제 추천 결과.</div></div>'
+            f'세로 벽 세 개가 관문이고, 뚫린 통로 높이가 통과한 건수다. 통로에 안 맞는 양은 <b>벽 앞에서 눌려 사라진다</b> — '
+            f'떨어뜨리는 게 아니라 이 회사에 해당되지 않을 뿐이고, 같은 공고가 다른 회사에서는 통과한다. '
+            f'안에 흐르는 가는 선 {len(res)}개는 결이지 개수가 아니고, 그중 끝까지 남은 선이 아래 표의 {len(res)}줄이 된다. 숫자·공고명은 2026-10-15 실제 추천 결과.</div></div>'
             f'<div class="ctl"><span data-run="full">처음 방문</span><span data-run="fast">재방문(짧게)</span><span data-run="still">움직임 줄이기</span></div>')
     return (f'<!doctype html><html lang="ko"><head><meta charset="utf-8"><title>조달핏 — 흐름</title>{FONT}'
             f'<style>{CSS}</style></head><body>{body}<script>{JS}</script></body></html>')
@@ -204,7 +219,12 @@ def demo():
     assert hh[0] == HMAX and abs(hh[3] - HMIN) < 1e-9, hh
     assert hh[0] > hh[1] > hh[2] > hh[3], hh          # 단조 감소
     assert hh[1] > (hh[0] + hh[3]) / 2, hh            # 로그라서 831이 선형 중간보다 위에 있어야
-    assert CY + hh[0] + DROP <= H, "쐐기가 캔버스를 벗어난다"
+    # 아래로 새는 것이 없다 — 띠도 부채도 캔버스 안에 들어온다
+    assert CY + hh[0] <= H and CY + FAN_SP <= H and CY - FAN_SP >= 0, (CY, hh[0], H)
+    defs, body, walls = sieve(hh)
+    assert walls.count("<line") == 12, "관문마다 위·아래 벽 2 + 통로 입술 2 = 12개"
+    for k in (1, 2, 3):                               # 통로 높이 = 통과한 건수의 띠 높이
+        assert f'x1="{XS[k]}" y1="{CY - hh[k - 1]:.1f}" x2="{XS[k]}" y2="{CY - hh[k]:.1f}"' in walls, k
     for i, h in enumerate(hh):
         assert max(10, CY - h - 52) + 46 < CY - h, f"{i}구간 라벨이 띠를 침범한다"
     ss = strands(hh, 12)
